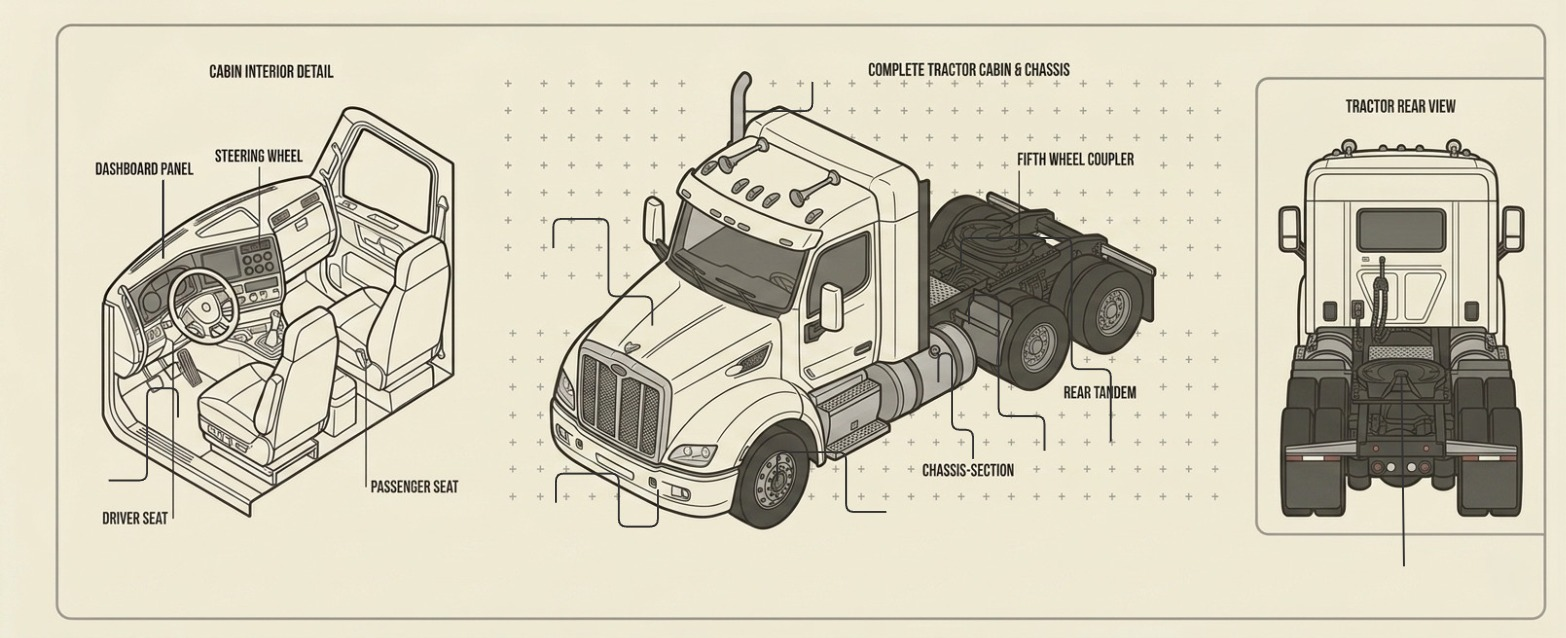
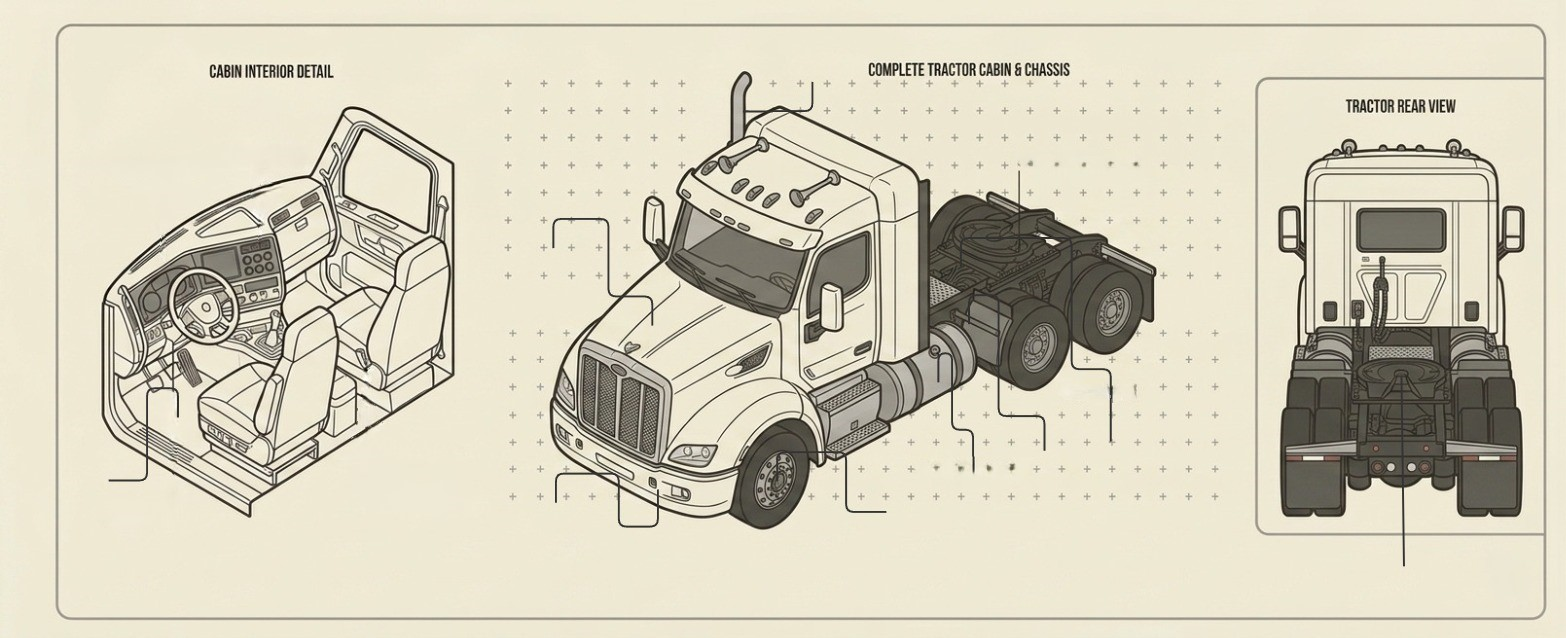
Fix database column name mismatches and HTTP 500 errors
- Align code with actual database: point_id, photo columns
- Update all API handlers to use correct column names
- Fix audit_log table name (was audit_logs)
- Update server.js to use inspectionIdHandler for GET /api/inspections/:id
- Fix ReconfirmModal to use point_id and photo
- Update AuditTrail to use photo instead of has_photo
- Add SQL migration scripts for column fixes
- Fix inspection points filtering to use correct column names

diff --git a/api/_lib/handlers.js b/api/_lib/handlers.js
@@ -90,9 +90,9 @@ export async function createInspection(req, res) {
     }))
     for (const pt of pointRows) {
       await sql`
-        INSERT INTO inspection_points (inspection_id, point_number, status, issue_id, issue_text, has_photo)
-        VALUES (${inspection.id}, ${pt.id}, ${pt.status}, ${pt.issueId}, ${pt.issueText}, ${pt.hasPhoto})
-        ON CONFLICT (inspection_id, point_number) DO NOTHING
+        INSERT INTO inspection_points (inspection_id, point_id, status, issue_id, issue_text, photo)
+        VALUES (${inspection.id}, ${pt.id}, ${pt.status}, ${pt.issueId}, ${pt.issueText}, ${pt.photo})
+        ON CONFLICT (inspection_id, point_id) DO NOTHING
       `
     }
 
@@ -140,7 +140,7 @@ export async function listInspections(req, res) {
     const offset = parseInt(url.searchParams.get('offset') || '0', 10)
 
     const rows = await sql`
-      SELECT * FROM v_inspections_list
+      SELECT * FROM inspections
       ORDER BY created_at DESC
       LIMIT ${limit} OFFSET ${offset}
     `
@@ -155,13 +155,13 @@ export async function listInspections(req, res) {
 export async function getInspection(req, res, id) {
   try {
     const sql = getSql()
-    const [insp] = await sql`SELECT * FROM v_inspections_list WHERE id = ${id} LIMIT 1`
+    const [insp] = await sql`SELECT * FROM inspections WHERE id = ${id} LIMIT 1`
     if (!insp) return res.status(404).json({ error: 'Not found' })
 
     const points = await sql`
-      SELECT point_number, status, issue_id, issue_text, has_photo
+      SELECT point_id, status, issue_id, issue_text, photo
       FROM inspection_points WHERE inspection_id = ${id}
-      ORDER BY point_number
+      ORDER BY point_id
     `
     const audits = await sql`
       SELECT id, user_name, role, action, details, ip_address, created_at
@@ -259,18 +259,18 @@ export async function reconfirmInspection(req, res, originalId) {
 
     // Compute new totals from modifications + original points
     const origPoints = await sql`
-      SELECT point_number, status, issue_id, issue_text, has_photo
+      SELECT point_id, status, issue_id, issue_text, photo
       FROM inspection_points WHERE inspection_id = ${originalId}
     `
     const pointsMap = {}
-    for (const p of origPoints) pointsMap[p.point_number] = { ...p }
+    for (const p of origPoints) pointsMap[p.point_id] = { ...p }
     for (const mod of modifications) {
-      pointsMap[mod.point_number] = {
-        point_number: mod.point_number,
+      pointsMap[mod.point_id] = {
+        point_id: mod.point_id,
         status: mod.new_status,
         issue_id: mod.new_issue_id || null,
         issue_text: mod.new_issue_text || null,
-        has_photo: !!mod.new_photo,
+        photo: mod.new_photo,
       }
     }
     const allPoints = Object.values(pointsMap)
@@ -304,9 +304,9 @@ export async function reconfirmInspection(req, res, originalId) {
     // Insert merged points
     for (const pt of allPoints) {
       await sql`
-        INSERT INTO inspection_points (inspection_id, point_number, status, issue_id, issue_text, has_photo)
-        VALUES (${newInsp.id}, ${pt.point_number}, ${pt.status}, ${pt.issue_id}, ${pt.issue_text}, ${pt.has_photo})
-        ON CONFLICT (inspection_id, point_number) DO NOTHING
+        INSERT INTO inspection_points (inspection_id, point_id, status, issue_id, issue_text, photo)
+        VALUES (${newInsp.id}, ${pt.point_id}, ${pt.status}, ${pt.issue_id}, ${pt.issue_text}, ${pt.photo})
+        ON CONFLICT (inspection_id, point_id) DO NOTHING
       `
     }
 
@@ -349,7 +349,7 @@ export async function getInspectionChain(req, res, id) {
     const sql = getSql()
     const chain = await sql`
       WITH RECURSIVE chain AS (
-        SELECT * FROM v_inspections_list WHERE id = ${id} OR original_inspection_id = ${id}
+        SELECT * FROM inspections WHERE id = ${id} OR original_inspection_id = ${id}
       )
       SELECT * FROM chain ORDER BY created_at ASC
     `

diff --git a/api/inspections/[id].js b/api/inspections/[id].js
@@ -9,7 +9,8 @@ export default async function handler(req, res) {
     return res.status(200).end()
   }
 
-  const { id } = req.query
+  // Check both req.query and req.params for id (Express compatibility)
+  const id = req.query.id || req.params.id
 
   try {
     const sql = getSql()
@@ -30,10 +31,10 @@ export default async function handler(req, res) {
 
       // Get points
       const points = await sql`
-        SELECT point_number, status, issue_id, issue_text, has_photo
+        SELECT point_id, status, issue_id, issue_text, photo
         FROM inspection_points
         WHERE inspection_id = ${inspection.id}
-        ORDER BY point_number
+        ORDER BY point_id
       `
 
       // Get audit logs
@@ -102,12 +103,12 @@ export default async function handler(req, res) {
       // Merge points with modifications
       const pointsMap = {}
       originalPoints.forEach(p => {
-        pointsMap[p.point_number] = {
-          point_number: p.point_number,
+        pointsMap[p.point_id] = {
+          point_id: p.point_id,
           status: p.status,
           issue_id: p.issue_id,
           issue_text: p.issue_text,
-          has_photo: p.has_photo
+          photo: p.photo
         }
       })
 
@@ -116,7 +117,7 @@ export default async function handler(req, res) {
           pointsMap[mod.pointId].status = mod.status
           pointsMap[mod.pointId].issue_id = mod.issueId
           pointsMap[mod.pointId].issue_text = mod.issueText
-          pointsMap[mod.pointId].has_photo = mod.photo ? true : false
+          pointsMap[mod.pointId].photo = mod.photo
         }
       })
 
@@ -152,9 +153,9 @@ export default async function handler(req, res) {
       // Insert merged points
       for (const pt of allPoints) {
         await sql`
-          INSERT INTO inspection_points (inspection_id, point_number, status, issue_id, issue_text, has_photo)
-          VALUES (${newInsp.id}, ${pt.point_number}, ${pt.status}, ${pt.issue_id}, ${pt.issue_text}, ${pt.has_photo})
-          ON CONFLICT (inspection_id, point_number) DO NOTHING
+          INSERT INTO inspection_points (inspection_id, point_id, status, issue_id, issue_text, photo)
+          VALUES (${newInsp.id}, ${pt.point_id}, ${pt.status}, ${pt.issue_id}, ${pt.issue_text}, ${pt.photo})
+          ON CONFLICT (inspection_id, point_id) DO NOTHING
         `
       }
 

diff --git a/src/components/ReconfirmModal.jsx b/src/components/ReconfirmModal.jsx
@@ -29,14 +29,14 @@ export default function ReconfirmModal({ open, originalInspection, onClose, onSu
 
       // Initialize all 20 inspection points
       for (let i = 1; i <= 20; i++) {
-        // Find the point data from the original inspection (uses point_number from DB)
-        const pointData = originalPoints.find(p => p.point_number === i)
+        // Find the point data from the original inspection (uses point_id from DB)
+        const pointData = originalPoints.find(p => p.point_id === i)
 
         initial[i] = {
           original: {
             status: pointData?.status || 'pending',
             issueId: pointData?.issue_id || null,
-            hasPhoto: pointData?.has_photo || false
+            hasPhoto: !!pointData?.photo
           },
           status: pointData?.status || 'pending',
           issueId: pointData?.issue_id || null,

diff --git a/server.js b/server.js
@@ -2,13 +2,14 @@
 import express from 'express'
 import cors from 'cors'
 import dotenv from 'dotenv'
-import { createInspection, listInspections, getInspection, downloadPdf, signAuditor, healthCheck, reconfirmInspection, getInspectionChain } from './api/_lib/handlers.js'
+import { createInspection, listInspections, downloadPdf, signAuditor, healthCheck, reconfirmInspection, getInspectionChain } from './api/_lib/handlers.js'
 import authHandler from './api/auth.js'
 import employeesHandler from './api/employees.js'
 import yardManagementHandler from './api/yard-management.js'
 import tprHandler from './api/tpr.js'
 import tprV2Handler from './api/tpr-v2.js'
 import verifyImageHandler from './api/verify-image.js'
+import inspectionIdHandler from './api/inspections/[id].js'
 
 dotenv.config()
 const app = express()
@@ -41,7 +42,7 @@ app.get('/api/tpr-v2', adaptHandler(tprV2Handler))
 app.post('/api/verify-image', adaptHandler(verifyImageHandler))
 app.post('/api/inspections', adaptHandler(createInspection))
 app.get('/api/inspections', adaptHandler(listInspections))
-app.get('/api/inspections/:id', adaptHandler((req, res, id) => getInspection(req, res, id)))
+app.all('/api/inspections/:id', adaptHandler(inspectionIdHandler))
 app.get('/api/inspections/:id/pdf', adaptHandler((req, res, id) => downloadPdf(req, res, id)))
 app.post('/api/inspections/:id/sign-auditor', adaptHandler((req, res, id) => signAuditor(req, res, id)))
 app.post('/api/inspections/:id/reconfirm', adaptHandler((req, res, id) => reconfirmInspection(req, res, id)))

diff --git a/api/inspections/index.js b/api/inspections/index.js
@@ -139,7 +139,7 @@ export default async function handler(req, res) {
 
       // Create audit log
       await sql`
-        INSERT INTO audit_logs (inspection_id, action, actor_name, details)
+        INSERT INTO audit_log (inspection_id, action, user_name, details)
         VALUES (
           ${inspection.id},
           'created',

diff --git a/src/components/AuditTrail.jsx b/src/components/AuditTrail.jsx
@@ -132,7 +132,7 @@ export default function AuditTrail({ inspectionId, className = '' }) {
                 </div>
                 <div className="flex-1 text-xs">
                   <div className="font-medium text-rose-800">{p.issue_text}</div>
-                  {p.has_photo && <span className="text-rose-600">📷 {language === 'es' ? 'con foto' : 'photo'}</span>}
+                  {p.photo && <span className="text-rose-600">📷 {language === 'es' ? 'con foto' : 'photo'}</span>}
                 </div>
               </div>
             ))}